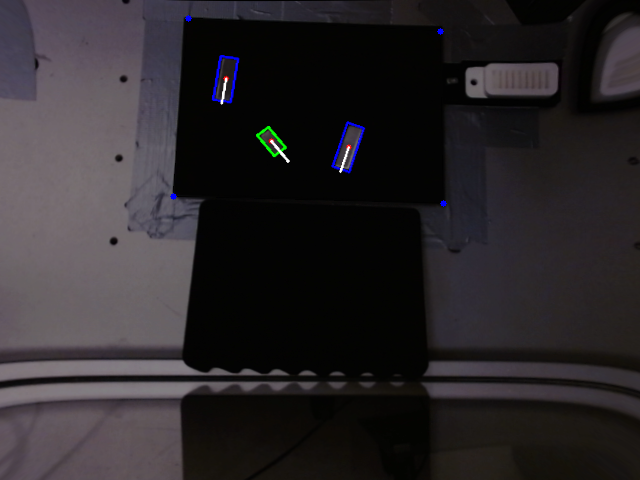
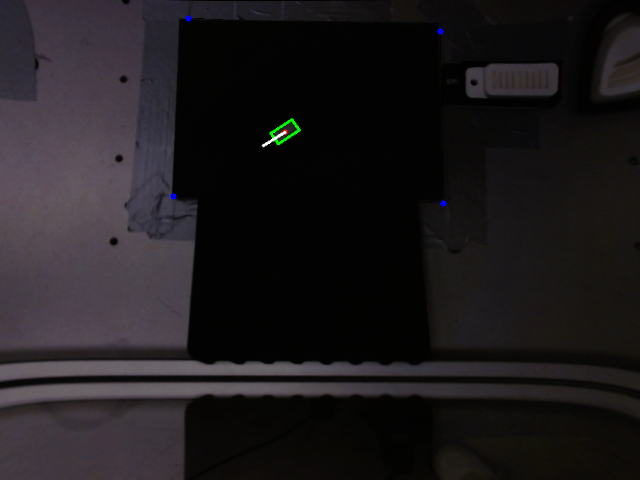
Add (non working) quality checking

diff --git a/web/index.html b/web/index.html
@@ -77,6 +77,8 @@
         <button id="planB_m">Medium</button>
         <button id="planB_l">Large</button>
 
+        <image src="quality.png" id = "quality">
+
     </div>
     </body>
 

diff --git a/ui.py b/ui.py
@@ -12,6 +12,7 @@ import sys
 
 from pipeline import pipeline, demo
 from TcpIP_client import Robot
+from quality import quality
 
 import time
 
@@ -22,6 +23,13 @@ robot = Robot()
 rx, ry, rz = 9.27, -175, -90
 z = -321
 
+placed = {
+    "small": 0,
+    "medium": 0,
+    "large": 0
+}
+
+startB = False
 
 hostName = "localhost"
 serverPort = 8080
@@ -77,19 +85,89 @@ def plan_b(size):
         nearest = min(sizes.keys(), key=lambda x: abs(x - area))
 
         if(sizes[nearest] == size):
-
-            robot.client_send("StartB*")
+            global startB
+            placed[size] += 1
+            if(not startB):
+                robot.client_send("StartB*")
+                startB = True
             print("Picking up " + sizes[nearest] + " object")
             print(str(x) + " " + str(y))
 
             robot.client_send_cords(x - x_offset, y - y_offset, z, rx, ry, rz)
 
-            rec = robot.client_receive()
-            print("Received: " + rec)
 
-            robot.client_send("Ok*") #quality is okay
-            
-            robot.client_send("stop*")
+            rec = ""
+            while not "In position" in rec:    
+                rec = robot.client_receive()
+
+            camera = cv2.VideoCapture(0, cv2.CAP_DSHOW)
+            camera.set(10, 130)
+            camera.set(11, 50)
+            camera.set(15, 255)
+
+            #print("Camera connected")
+
+            return_value, image = camera.read()
+
+            image, _ = pipeline(debug_show=False)
+
+
+            cv2.imwrite("web/quality.png", image)
+
+            q = quality(image)
+
+            tb = q.orientation() #1 - top, 0 - bottom
+            distance = q.qual()
+
+            print("Distance: " + str(distance))
+
+            product_ok = False
+
+            if distance >= 5 and distance <= 29:
+                product_ok = True
+
+            if (product_ok):
+                print("Product is okay!")
+                robot.client_send("Ok*") #quality is okay
+
+                #if tb == 0:
+                #    if size == "medium":
+                #       robot.client_send("Turn medium*")
+                #    if size == "medium":
+                #        robot.client_send("Turn large*")
+                #    rec = ""
+                #    while not "In position" in rec:    
+                #        rec = robot.client_receive()
+
+                #place = placed[size]
+                #if size == "medium":
+                #   if place == 1:
+                #       robot.client_send("1*")
+                #   if place == 2:
+                #       robot.client_send("2*")
+                #   if place == 3:
+                #       robot.client_send("3*")
+                #   if place == 4:
+                #       robot.client_send("7*")
+                #   if place == 5:
+                #       robot.client_send("8*")
+
+                #if size == "large":
+                #   if place == 1:
+                #       robot.client_send("4*")
+                #   if place == 2:
+                #       robot.client_send("5*")
+                #   if place == 3:
+                #       robot.client_send("6*")
+                #   if place == 4:
+                #       robot.client_send("9*")
+                    
+
+            else:
+                print("WARNING: PRODUCT IS BROKEN!")
+                robot.client_send("Brken*") #quality is not okay
+
+            #robot.client_send("stop*")
             return True
 
     robot.client_send("stop*")

diff --git a/quality.py b/quality.py
@@ -10,26 +10,30 @@ class quality:
         #Open image 
         self.canny = cv2.Canny(self.image, 150, 200)
         #crop image
-        self.canny = self.canny[200:260, 230:280]
+        self.canny = self.canny[206:264, 301:347]
+
+        #plt.imshow(self.canny, cmap='gray')
+        #plt.show()
+
         kernel = np.ones((2,2), np.uint8)
         self.dialate = cv2.dilate(self.canny, kernel,iterations=1)
 
-        plt.figure(figsize=(10,10))
-        plt.imshow(self.dialate, cmap='gray')
-        plt.show()
+        #plt.figure(figsize=(10,10))
+        #plt.imshow(self.dialate, cmap='gray')
+        #plt.show()
         histogram = np.sum(self.dialate, axis=1)
         self.max_index = np.argmax(histogram)
         x_coords = np.where(self.canny[self.max_index, :] == 255)
         self.x_middle = int(np.round(np.median(x_coords)))
-        print(self.x_middle)
-        print(self.max_index)
+        #print(self.x_middle)
+        #print(self.max_index)
         self.axis_y_len = len(histogram)
-        print(self.axis_y_len)
+        #print(self.axis_y_len)
         if self.max_index < self.axis_y_len/2:
-            print("Top")
+            #print("Top")
             return 1 
         else:
-            print("Bottom")
+            #print("Bottom")
             return 0 
         
 
@@ -61,9 +65,9 @@ class quality:
             # Calculate the distance between the two pixels
             distance = np.sqrt((brightest_pixel_right[0] - brightest_pixel_left[0])**2 + (brightest_pixel_right[1] - brightest_pixel_left[1])**2)
 
-            print(f"The distance between the brightest pixels is {distance} pixels")
+            #print(f"The distance between the brightest pixels is {distance} pixels")
             #TODO set quality value
-
+            return distance
 
         else:
             #Bottom side image
@@ -88,8 +92,10 @@ class quality:
             brightest_pixel_right = (brightest_pixel_right[0] + right.shape[0]//2, brightest_pixel_right[1] + right.shape[1])
 
             distance = np.sqrt((brightest_pixel_right[0] - brightest_pixel_left[0])**2 + (brightest_pixel_right[1] - brightest_pixel_left[1])**2)
+            #print(f"The distance between the brightest pixels is {distance} pixels")
 
-            print(f"The distance between the brightest pixels is {distance} pixels")
+            return distance
+
         
         
         # plt.figure(figsize=(10,10))
@@ -97,9 +103,12 @@ class quality:
         # plt.show()
         
 
-
 if __name__ == "__main__":
-    img = cv2.imread('quality4.png')
+    img = cv2.imread('web/quality.png')
+
+    plt.imshow(img)
+    plt.show()
+
     q = quality(img)
     q.qual()
 

diff --git a/TcpIP_client.py b/TcpIP_client.py
@@ -45,6 +45,8 @@ class Robot:
         
         print("Received: " + msg_r)
 
+        return msg_r
+
 
     def client_send_cords(self, x, y, z, rx, ry, rz):
         msg = str(x) + " " + str(y) + " " + str(z) + " " + str(rx) + " " + str(ry) + " " + str(rz) +"*"

diff --git a/pipeline.py b/pipeline.py
@@ -226,6 +226,10 @@ def pipeline(debug_show = False):
         cv2.imshow('segments', image_segments)
         cv2.imshow('base_image', base_image)
         cv2.imshow('image', image)
+
+    camera.release()
+
+
         
     return image, objects
 
